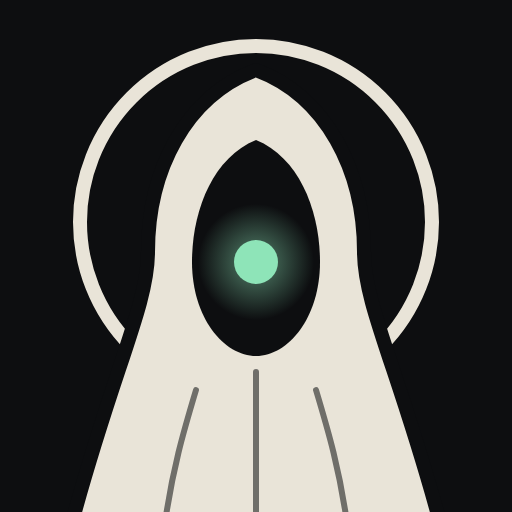
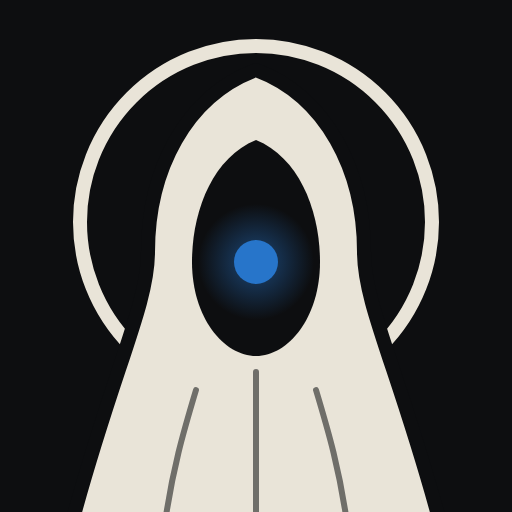
Rebrand accent from mint to USDC blue (#2775CA)
- Site: --accent #2775CA for buttons (white text), chart line, dots, streak bar,
  selection; --accent-ink #4B8FD8 for small text (5.7:1 vs 4.1:1)
- Re-copied the blue hooded logo (header, favicon, token image)
- Share card, X launch graphic and brand board re-rendered in blue
- Not deployed yet

Changed region(s): [[0.4062, 0.4375, 0.5938, 0.5938]]

diff --git a/public/style.css b/public/style.css
@@ -3,7 +3,9 @@
 :root {
   --bg: #0d0e10; --surface: #15171a; --hover: #1c1f23; --line: #24272c;
   --text: #eceae4; --muted: #868b94; --dim: #5d626b;
-  --mint: #8ee4b8; --mint-soft: rgba(142, 228, 184, .1);
+  /* USDC blue. --accent (exact #2775CA) for fills, lines and buttons; --accent-ink, a lighter tint of it,
+     for small text, where #2775CA alone is below 4.5:1 on the dark background. */
+  --accent: #2775ca; --accent-ink: #4b8fd8; --accent-soft: rgba(39, 117, 202, .14);
   --sans: "Inter Tight", Inter, system-ui, -apple-system, Segoe UI, sans-serif;
   --mono: "JetBrains Mono", ui-monospace, Menlo, Consolas, monospace;
   color-scheme: dark;
@@ -16,14 +18,14 @@ button, input { font: inherit; color: inherit; }
 [hidden] { display: none !important; }
 .mono, .n { font-family: var(--mono); font-variant-numeric: tabular-nums; }
 .muted { color: var(--muted); }
-.mint { color: var(--mint); }
-::selection { background: var(--mint); color: var(--bg); }
+.accent { color: var(--accent-ink); }
+::selection { background: var(--accent); color: #fff; }
 
 /* header */
 header { position: sticky; top: 0; z-index: 20; background: rgba(13, 14, 16, .86); backdrop-filter: blur(12px); }
 .bar { max-width: 1080px; margin: 0 auto; display: flex; align-items: center; gap: 28px; padding: 14px 20px; }
 .logo { font-weight: 700; font-size: 16px; text-decoration: none; white-space: nowrap; display: flex; align-items: center; gap: 9px; }
-/* The mark: a hooded member, the inner circle worn as a halo, the mint dot glowing under the hood. */
+/* The mark: a hooded member, the inner circle worn as a halo, the blue dot glowing under the hood. */
 .logo .mark { width: 26px; height: 26px; flex: none; display: block; }
 .logo .word { letter-spacing: .14em; }
 .net { font: 500 11px var(--mono); color: var(--muted); background: var(--surface); padding: 3px 7px; border-radius: 6px; }
@@ -33,8 +35,8 @@ nav.tabs button:hover { color: var(--text); }
 nav.tabs button.on { color: var(--text); background: var(--surface); }
 .btn { display: inline-flex; align-items: center; justify-content: center; text-decoration: none; border: 0; border-radius: 10px; padding: 10px 18px; cursor: pointer; font-weight: 600; background: var(--surface); white-space: nowrap; transition: background .15s; }
 .btn:hover { background: var(--hover); }
-.btn.mint { background: var(--mint); color: #0b1a12; }
-.btn.mint:hover { background: #a6ecc7; }
+.btn.accent { background: var(--accent); color: #fff; }
+.btn.accent:hover { background: #1f66b5; }
 .btn.small { padding: 7px 13px; font-size: 13px; border-radius: 9px; }
 .btn:disabled { opacity: .45; cursor: default; }
 
@@ -42,7 +44,7 @@ nav.tabs button.on { color: var(--text); background: var(--surface); }
 .ticker { border-top: 1px solid var(--line); border-bottom: 1px solid var(--line); overflow: hidden; white-space: nowrap; font-size: 13px; color: var(--muted); mask-image: linear-gradient(90deg, transparent, #000 6%, #000 94%, transparent); }
 .ticker .track { display: inline-flex; gap: 40px; padding: 8px 0; animation: tick 60s linear infinite; }
 .ticker:hover .track { animation-play-state: paused; }
-.ticker b { font: 500 13px var(--mono); color: var(--mint); }
+.ticker b { font: 500 13px var(--mono); color: var(--accent-ink); }
 .ticker span.w { font-family: var(--mono); color: var(--text); }
 @keyframes tick { from { transform: translateX(0); } to { transform: translateX(-50%); } }
 
@@ -54,8 +56,8 @@ section.view.on { display: block; }
 .hero { text-align: center; padding: 76px 0 56px; }
 .hero .eyebrow { color: var(--muted); font-size: 14px; letter-spacing: .02em; }
 .clock { font: 500 clamp(76px, 15vw, 136px)/1 var(--mono); letter-spacing: -.04em; margin: 10px 0 18px; font-variant-numeric: tabular-nums; }
-.clock.paid { font-size: clamp(30px, 6vw, 52px); letter-spacing: -.02em; color: var(--mint); padding: 34px 0; }
-.pot { font: 500 clamp(28px, 5vw, 40px)/1.1 var(--mono); color: var(--mint); font-variant-numeric: tabular-nums; }
+.clock.paid { font-size: clamp(30px, 6vw, 52px); letter-spacing: -.02em; color: var(--accent-ink); padding: 34px 0; }
+.pot { font: 500 clamp(28px, 5vw, 40px)/1.1 var(--mono); color: var(--accent-ink); font-variant-numeric: tabular-nums; }
 .pot small { display: block; font: 400 14px var(--sans); color: var(--muted); margin-top: 6px; }
 .line { color: var(--muted); max-width: 460px; margin: 26px auto 0; }
 .cta { display: flex; gap: 10px; justify-content: center; margin-top: 28px; }
@@ -65,20 +67,20 @@ section.view.on { display: block; }
 .hourbar { width: min(220px, 60%); height: 2px; background: var(--line); border-radius: 2px; margin: -4px auto 22px; overflow: hidden; }
 .hourbar > div { height: 100%; width: 0; background: var(--muted); border-radius: 2px; transition: width 1s linear; }
 .pot { position: relative; display: inline-block; }
-.pot .bump { position: absolute; left: 100%; top: 2px; margin-left: 10px; font: 500 15px var(--mono); color: var(--mint); opacity: 0; white-space: nowrap; }
+.pot .bump { position: absolute; left: 100%; top: 2px; margin-left: 10px; font: 500 15px var(--mono); color: var(--accent-ink); opacity: 0; white-space: nowrap; }
 .pot .bump.show { animation: bump 2.4s ease-out; }
 @keyframes bump { 0% { opacity: 0; transform: translateY(6px); } 15% { opacity: 1; transform: none; } 75% { opacity: 1; } 100% { opacity: 0; transform: translateY(-6px); } }
 
 /* your share strip */
 .mine { margin: 30px auto 0; max-width: 520px; background: var(--surface); border-radius: 14px; padding: 16px 18px; text-align: left; }
 .mine .cut { display: flex; align-items: baseline; gap: 10px; flex-wrap: wrap; }
-.mine .est { font: 500 24px var(--mono); color: var(--mint); }
+.mine .est { font: 500 24px var(--mono); color: var(--accent-ink); }
 .mine .lbl { color: var(--muted); font-size: 13px; }
 .facts { display: grid; grid-template-columns: repeat(3, minmax(0, 1fr)); gap: 12px; margin-top: 14px; }
 .facts b { display: block; font: 500 15px var(--mono); }
 .facts span { color: var(--muted); font-size: 12px; }
 .streak { height: 3px; background: var(--line); border-radius: 3px; margin-top: 14px; overflow: hidden; }
-.streak > div { height: 100%; background: var(--mint); border-radius: 3px; transition: width .6s; }
+.streak > div { height: 100%; background: var(--accent); border-radius: 3px; transition: width .6s; }
 .streak-l { display: flex; justify-content: space-between; color: var(--dim); font: 400 11px var(--mono); margin-top: 6px; }
 
 /* price chart: one series, so no legend; the title names it */
@@ -95,9 +97,9 @@ section.view.on { display: block; }
 .chart svg { display: block; width: 100%; height: 100%; overflow: visible; }
 .chart .grid { stroke: var(--line); stroke-width: 1; }
 .chart .axis { fill: var(--dim); font: 400 11px var(--mono); }
-.chart .line { fill: none; stroke: var(--mint); stroke-width: 2; stroke-linejoin: round; stroke-linecap: round; }
+.chart .line { fill: none; stroke: var(--accent); stroke-width: 2; stroke-linejoin: round; stroke-linecap: round; }
 .chart .cross { stroke: var(--muted); stroke-width: 1; }
-.chart .dot { fill: var(--mint); stroke: var(--bg); stroke-width: 2; }
+.chart .dot { fill: var(--accent); stroke: var(--bg); stroke-width: 2; }
 .tip { position: absolute; top: 0; transform: translateX(-50%); pointer-events: none; background: var(--hover); border: 1px solid var(--line); border-radius: 8px; padding: 6px 9px; white-space: nowrap; display: flex; flex-direction: column; gap: 1px; }
 .tip b { font: 500 13px var(--mono); color: var(--text); }
 .tip span { font-size: 11px; color: var(--muted); }
@@ -114,7 +116,7 @@ h1 { font-weight: 700; font-size: 34px; letter-spacing: -.02em; margin: 44px 0 6
 .lead { color: var(--muted); margin: 0 0 22px; max-width: 560px; }
 .steps { counter-reset: s; list-style: none; padding: 0; margin: 0; display: grid; gap: 12px; }
 .steps li { counter-increment: s; display: flex; gap: 14px; }
-.steps li::before { content: counter(s); flex: none; width: 22px; font: 500 13px/22px var(--mono); color: var(--mint); }
+.steps li::before { content: counter(s); flex: none; width: 22px; font: 500 13px/22px var(--mono); color: var(--accent-ink); }
 details.fine { margin-top: 18px; color: var(--muted); font-size: 13px; }
 details.fine summary { cursor: pointer; color: var(--text); font-size: 14px; list-style: none; }
 details.fine summary::before { content: "+ "; color: var(--muted); font-family: var(--mono); }
@@ -123,27 +125,27 @@ details.fine ul { padding-left: 18px; }
 .calc { background: var(--surface); border-radius: 14px; padding: 18px; }
 .calc label { display: block; color: var(--muted); font-size: 13px; margin-bottom: 8px; }
 .field { display: flex; align-items: center; gap: 8px; background: var(--bg); border: 1px solid var(--line); border-radius: 10px; padding: 3px 6px 3px 14px; }
-.field:focus-within { border-color: rgba(142, 228, 184, .45); }
+.field:focus-within { border-color: rgba(39, 117, 202, .6); }
 .field input { flex: 1; min-width: 0; background: none; border: 0; outline: none; font: 500 18px var(--mono); padding: 9px 0; font-variant-numeric: tabular-nums; }
 .field span { color: var(--muted); font-size: 13px; padding: 0 8px; white-space: nowrap; }
 .calc .out { margin-top: 14px; }
-.calc .out .n { font-size: 24px; color: var(--mint); }
+.calc .out .n { font-size: 24px; color: var(--accent-ink); }
 
 /* lists (soft hover) */
 .narrow { max-width: 720px; }
 .rows { display: flex; flex-direction: column; gap: 2px; }
 .row { display: flex; align-items: center; gap: 12px; padding: 9px 10px; border-radius: 6px; cursor: pointer; text-decoration: none; }
 .row:hover { background: rgba(255, 255, 255, .04); }
-.row:hover .t { color: var(--mint); }
+.row:hover .t { color: var(--accent-ink); }
 .row .body { flex: 1; min-width: 0; }
 .row .t { font: 500 14px var(--mono); overflow: hidden; text-overflow: ellipsis; white-space: nowrap; }
 .row .d { color: var(--muted); font-size: 13px; }
 .row .end { text-align: right; white-space: nowrap; }
-.row .end .a { font: 500 14px var(--mono); color: var(--mint); }
+.row .end .a { font: 500 14px var(--mono); color: var(--accent-ink); }
 .row .end .w { color: var(--muted); font-size: 12px; }
 .row.fresh { animation: fresh 1.6s ease-out; }
-@keyframes fresh { from { background: var(--mint-soft); } to { background: transparent; } }
-.row.you { background: var(--mint-soft); }
+@keyframes fresh { from { background: var(--accent-soft); } to { background: transparent; } }
+.row.you { background: var(--accent-soft); }
 .av.pfp { object-fit: cover; background: var(--surface); }
 .xn { font-family: var(--sans); font-weight: 600; }
 
@@ -168,7 +170,7 @@ details.fine ul { padding-left: 18px; }
 .btn.ghost { background: none; color: var(--muted); }
 .btn.ghost:hover { color: var(--text); background: var(--surface); }
 @media (max-width: 560px) { .pstats { grid-template-columns: repeat(2, minmax(0, 1fr)); } .pid h1 { font-size: 24px; } .ppfp, .av.big { width: 60px; height: 60px; } }
-.me { font: 500 11px var(--sans); color: var(--mint); margin-left: 6px; }
+.me { font: 500 11px var(--sans); color: var(--accent-ink); margin-left: 6px; }
 .rank { width: 20px; color: var(--dim); font: 400 12px var(--mono); text-align: right; flex: none; }
 .av { width: 32px; height: 32px; border-radius: 8px; display: grid; place-items: center; font: 500 11px var(--mono); flex: none; }
 .seg { display: inline-flex; background: var(--surface); border-radius: 9px; padding: 3px; gap: 2px; margin-bottom: 14px; }
@@ -183,7 +185,7 @@ dialog#tradeDlg::backdrop { background: rgba(0, 0, 0, .65); backdrop-filter: blu
 .x { background: none; border: 0; width: 32px; height: 32px; border-radius: 50%; cursor: pointer; color: var(--muted); font-size: 15px; }
 .x:hover { color: var(--text); background: var(--hover); }
 .dlg-label { display: flex; justify-content: space-between; color: var(--muted); font-size: 13px; margin: 18px 0 8px; }
-.dlg-label button { background: none; border: 0; color: var(--mint); cursor: pointer; font-size: 12px; padding: 0; }
+.dlg-label button { background: none; border: 0; color: var(--accent-ink); cursor: pointer; font-size: 12px; padding: 0; }
 .field.big input { font-size: 24px; padding: 10px 0; }
 .chips { display: flex; gap: 6px; margin-top: 10px; flex-wrap: wrap; }
 .chips button { background: var(--bg); border: 1px solid var(--line); border-radius: 8px; padding: 5px 10px; color: var(--muted); cursor: pointer; font: 500 12px var(--mono); }

diff --git a/brand/board.html b/brand/board.html
@@ -1,1 +1,1 @@
-<!doctype html><html><head><meta charset="utf-8"><link href="https://fonts.googleapis.com/css2?family=Inter+Tight:wght@400;500;600;700&family=JetBrains+Mono:wght@400;500&display=block" rel="stylesheet"><style>:root{--bg:#0d0e10;--surface:#15171a;--line:#24272c;--text:#eceae4;--muted:#868b94;--dim:#5d626b;--mint:#8ee4b8}html,body{margin:0;background:var(--bg);color:var(--text);font-family:"Inter Tight",sans-serif;overflow:hidden}em{font-style:normal;color:var(--mint)}.mono{font-family:"JetBrains Mono",monospace}html,body{width:1600px;height:1000px}.page{padding:64px 72px;display:grid;grid-template-columns:1fr 1fr;gap:28px;height:100%;box-sizing:border-box}.card{background:var(--surface);border-radius:20px;padding:32px 36px;position:relative}.k{font:500 13px "JetBrains Mono";color:var(--dim);letter-spacing:.08em;text-transform:uppercase;margin-bottom:22px}.lock{display:flex;align-items:center;gap:18px}.lock b{font:700 46px "Inter Tight";letter-spacing:.14em}.note{color:var(--muted);font-size:16px;line-height:1.5;margin-top:22px;max-width:560px}.marks{display:flex;gap:28px;align-items:center;margin-top:26px}.tile{width:84px;height:84px;border-radius:20px;background:var(--bg);display:grid;place-items:center}.sw{display:grid;grid-template-columns:repeat(4,1fr);gap:14px}.sw div{border-radius:12px;height:96px;padding:10px 12px;box-sizing:border-box;display:flex;flex-direction:column;justify-content:flex-end;font:500 12px "JetBrains Mono"}.sw span{opacity:.75}.type1{font:700 52px "Inter Tight";letter-spacing:-.02em}.type2{font:500 40px "JetBrains Mono";color:var(--mint);margin-top:8px}.type3{color:var(--muted);margin-top:10px;font-size:15px}.gl{display:grid;grid-template-columns:auto 1fr;gap:12px 28px;font-size:18px}.gl dt{color:var(--muted)}.gl dd{margin:0}.lines p{margin:0 0 14px;font-size:22px;font-weight:600;letter-spacing:-.01em}</style></head><body><div class="page"><div class="card"><div class="k">Mark</div><div class="lock"><img src="hooded/cult-transparent.svg" width="73" height="73" alt=""><b>CULT</b></div><p class="note">A hooded member, the inner circle worn as a halo, the mint dot glowing under the hood. Mint is the one colour on the page: money paid to those who stay.</p><div class="marks"><div class="tile"><img src="hooded/cult-transparent.svg" width="68" height="68" alt=""></div><div class="tile" style="overflow:hidden;padding:0"><img src="hooded/cult-icon.svg" width="84" height="84" alt=""></div><img src="hooded/cult-transparent.svg" width="36" height="36" alt=""><img src="hooded/cult-transparent.svg" width="23" height="23" alt=""></div></div><div class="card"><div class="k">Colour</div><div class="sw"><div style="background:#0d0e10;border:1px solid #24272c">Night<span>#0D0E10</span></div><div style="background:#15171a;border:1px solid #24272c">Surface<span>#15171A</span></div><div style="background:#eceae4;color:#0d0e10">Bone<span>#ECEAE4</span></div><div style="background:#8ee4b8;color:#0b1a12">Mint · paid<span>#8EE4B8</span></div></div><p class="note">Dark and calm while everything else is red. Mint only ever means USDC paid to members, plus the button to join.</p></div><div class="card"><div class="k">Type</div><div class="type1">The cult is getting paid.</div><div class="type2">$0.0₃420 · 09:41</div><div class="type3">Inter Tight for words · JetBrains Mono for every number</div></div><div class="card"><div class="k">Voice</div><dl class="gl"><dt>holders</dt><dd>members</dd><dt>buy</dt><dd>join</dd><dt>15% sell tax</dt><dd>the exit tithe</dd><dt>holding streak</dt><dd>devotion</dd><dt>sellers</dt><dd>left the cult</dd><dt>airdrop</dt><dd>the cult gets paid</dd></dl></div><div class="card lines" style="grid-column:1/-1;display:flex;gap:56px;align-items:center"><div class="k" style="margin:0">Lines</div><p>Everyone's panicking. <em>The cult is getting paid.</em></p><p>Joining is free. Leaving costs 15%.</p><p>A ponzi game. No promised returns.</p></div></div></body></html>
+<!doctype html><html><head><meta charset="utf-8"><link href="https://fonts.googleapis.com/css2?family=Inter+Tight:wght@400;500;600;700&family=JetBrains+Mono:wght@400;500&display=block" rel="stylesheet"><style>:root{--bg:#0d0e10;--surface:#15171a;--line:#24272c;--text:#eceae4;--muted:#868b94;--dim:#5d626b;--mint:#2775ca}html,body{margin:0;background:var(--bg);color:var(--text);font-family:"Inter Tight",sans-serif;overflow:hidden}em{font-style:normal;color:var(--mint)}.mono{font-family:"JetBrains Mono",monospace}html,body{width:1600px;height:1000px}.page{padding:64px 72px;display:grid;grid-template-columns:1fr 1fr;gap:28px;height:100%;box-sizing:border-box}.card{background:var(--surface);border-radius:20px;padding:32px 36px;position:relative}.k{font:500 13px "JetBrains Mono";color:var(--dim);letter-spacing:.08em;text-transform:uppercase;margin-bottom:22px}.lock{display:flex;align-items:center;gap:18px}.lock b{font:700 46px "Inter Tight";letter-spacing:.14em}.note{color:var(--muted);font-size:16px;line-height:1.5;margin-top:22px;max-width:560px}.marks{display:flex;gap:28px;align-items:center;margin-top:26px}.tile{width:84px;height:84px;border-radius:20px;background:var(--bg);display:grid;place-items:center}.sw{display:grid;grid-template-columns:repeat(4,1fr);gap:14px}.sw div{border-radius:12px;height:96px;padding:10px 12px;box-sizing:border-box;display:flex;flex-direction:column;justify-content:flex-end;font:500 12px "JetBrains Mono"}.sw span{opacity:.75}.type1{font:700 52px "Inter Tight";letter-spacing:-.02em}.type2{font:500 40px "JetBrains Mono";color:var(--mint);margin-top:8px}.type3{color:var(--muted);margin-top:10px;font-size:15px}.gl{display:grid;grid-template-columns:auto 1fr;gap:12px 28px;font-size:18px}.gl dt{color:var(--muted)}.gl dd{margin:0}.lines p{margin:0 0 14px;font-size:22px;font-weight:600;letter-spacing:-.01em}</style></head><body><div class="page"><div class="card"><div class="k">Mark</div><div class="lock"><img src="hooded/cult-transparent.svg" width="73" height="73" alt=""><b>CULT</b></div><p class="note">A hooded member, the inner circle worn as a halo, the blue dot glowing under the hood. USDC blue is the one colour on the page: money paid to those who stay.</p><div class="marks"><div class="tile"><img src="hooded/cult-transparent.svg" width="68" height="68" alt=""></div><div class="tile" style="overflow:hidden;padding:0"><img src="hooded/cult-icon.svg" width="84" height="84" alt=""></div><img src="hooded/cult-transparent.svg" width="36" height="36" alt=""><img src="hooded/cult-transparent.svg" width="23" height="23" alt=""></div></div><div class="card"><div class="k">Colour</div><div class="sw"><div style="background:#0d0e10;border:1px solid #24272c">Night<span>#0D0E10</span></div><div style="background:#15171a;border:1px solid #24272c">Surface<span>#15171A</span></div><div style="background:#eceae4;color:#0d0e10">Bone<span>#ECEAE4</span></div><div style="background:#2775ca;color:#fff">USDC blue · paid<span>#2775CA</span></div></div><p class="note">Dark and calm while everything else is red. USDC blue only ever means USDC paid to members, plus the button to join. Small blue text uses the lighter tint #4B8FD8 so it stays readable.</p></div><div class="card"><div class="k">Type</div><div class="type1">The cult is getting paid.</div><div class="type2">$0.0₃420 · 09:41</div><div class="type3">Inter Tight for words · JetBrains Mono for every number</div></div><div class="card"><div class="k">Voice</div><dl class="gl"><dt>holders</dt><dd>members</dd><dt>buy</dt><dd>join</dd><dt>15% sell tax</dt><dd>the exit tithe</dd><dt>holding streak</dt><dd>devotion</dd><dt>sellers</dt><dd>left the cult</dd><dt>airdrop</dt><dd>the cult gets paid</dd></dl></div><div class="card lines" style="grid-column:1/-1;display:flex;gap:56px;align-items:center"><div class="k" style="margin:0">Lines</div><p>Everyone's panicking. <em>The cult is getting paid.</em></p><p>Joining is free. Leaving costs 15%.</p><p>A ponzi game. No promised returns.</p></div></div></body></html>

diff --git a/public/app.js b/public/app.js
@@ -403,7 +403,7 @@
     } else {
       const gross = (amt * sol) / (tok + amt), fee = (gross * pool.feeBps) / 10_000;
       const imp = (amt / (tok + amt)) * 100;
-      q.innerHTML = `<div class="n">~${(gross - fee).toFixed(4)} SOL</div><div class="muted"><span class="mint mono">${fee.toFixed(4)} SOL</span> of it goes to the cult.</div>${impact(imp)}`;
+      q.innerHTML = `<div class="n">~${(gross - fee).toFixed(4)} SOL</div><div class="muted"><span class="accent mono">${fee.toFixed(4)} SOL</span> of it goes to the cult.</div>${impact(imp)}`;
     }
   }
   $("sideSeg").addEventListener("click", (e) => { const b = e.target.closest("button"); if (b) setSide(b.dataset.v); });
@@ -416,14 +416,14 @@
   function disarm() {
     armed = false;
     $("streakWarn").classList.remove("armed");
-    $("tradeGo").classList.add("mint");
+    $("tradeGo").classList.add("accent");
     if (side === "sell") $("tradeGo").textContent = "Sell";
   }
   $("tradeGo").addEventListener("click", async () => {
     if (side === "sell" && !armed) {
       armed = true;
       $("streakWarn").classList.add("armed");
-      $("tradeGo").classList.remove("mint"); // the bright button is for holding, not for this
+      $("tradeGo").classList.remove("accent"); // the bright button is for holding, not for this
       $("tradeGo").textContent = `Leave anyway, pay ${(pool?.feeBps ?? S.sellTaxBps) / 100}%`;
       return;
     }
@@ -469,7 +469,7 @@
     if (!viewing) return;
     const mine = viewing === "me" || viewing === wallet;
     if (mine && !wallet) {
-      el.innerHTML = `<div class="pempty"><h1>Your profile</h1><p class="lead">Connect the wallet you hold $${esc(S?.ticker || "CULT")} in. Link your X and your name and picture show on the boards, and stay in sync with X.</p><button class="btn mint" id="pConnect">Connect wallet</button></div>`;
+      el.innerHTML = `<div class="pempty"><h1>Your profile</h1><p class="lead">Connect the wallet you hold $${esc(S?.ticker || "CULT")} in. Link your X and your name and picture show on the boards, and stay in sync with X.</p><button class="btn accent" id="pConnect">Connect wallet</button></div>`;
       $("pConnect").onclick = connect;
       return;
     }
@@ -484,16 +484,16 @@
     const devotion = p.devotionDays == null ? (p.sells ? "left the cult" : "—") : `${p.devotionDays}d · ${p.multiplier}×`;
     const stats = [
       [compact(p.balance || 0), `$${esc(S?.ticker || "CULT")} held`],
-      [usd(p.receivedUsdc || 0), "USDC received", "mint"],
+      [usd(p.receivedUsdc || 0), "USDC received", "accent"],
       [devotion, "devotion"],
       [p.rank ? "#" + p.rank : "—", "rank among members"],
     ];
     let actions = "";
     if (mine) {
-      if (!ME?.signedIn) actions = `<button class="btn mint" id="pSign">Sign in to edit</button><span class="pnote">One free signature proves the wallet is yours.</span>`;
-      else if (!ME.holds) actions = `<button class="btn mint" data-trade="buy" id="pJoin">Join to create a profile</button><span class="pnote">Profiles are for members holding $${esc(S?.ticker || "CULT")}.</span>`;
+      if (!ME?.signedIn) actions = `<button class="btn accent" id="pSign">Sign in to edit</button><span class="pnote">One free signature proves the wallet is yours.</span>`;
+      else if (!ME.holds) actions = `<button class="btn accent" data-trade="buy" id="pJoin">Join to create a profile</button><span class="pnote">Profiles are for members holding $${esc(S?.ticker || "CULT")}.</span>`;
       else if (!ME.xEnabled) actions = `<span class="pnote">Linking X opens soon.</span>`;
-      else if (!x) actions = `<a class="btn mint" href="/api/x/connect">Link X</a><span class="pnote">Your X name and picture become your profile, and stay in sync with X.</span>`;
+      else if (!x) actions = `<a class="btn accent" href="/api/x/connect">Link X</a><span class="pnote">Your X name and picture become your profile, and stay in sync with X.</span>`;
       else actions = `<button class="btn" id="pUnlink">Unlink X</button>`;
       actions += `<button class="btn ghost" id="pOut">Sign out</button>`;
     }

diff --git a/brand/og.html b/brand/og.html
@@ -1,1 +1,1 @@
-<!doctype html><html><head><meta charset="utf-8"><link href="https://fonts.googleapis.com/css2?family=Inter+Tight:wght@400;500;600;700&family=JetBrains+Mono:wght@400;500&display=block" rel="stylesheet"><style>:root{--bg:#0d0e10;--surface:#15171a;--line:#24272c;--text:#eceae4;--muted:#868b94;--dim:#5d626b;--mint:#8ee4b8}html,body{margin:0;background:var(--bg);color:var(--text);font-family:"Inter Tight",sans-serif;overflow:hidden}em{font-style:normal;color:var(--mint)}.mono{font-family:"JetBrains Mono",monospace}html,body{width:1200px;height:630px}.glow{position:absolute;left:50%;top:48%;width:900px;height:520px;transform:translate(-50%,-50%);background:radial-gradient(closest-side,rgba(142,228,184,.09),transparent)}.wrap{position:absolute;inset:0;display:flex;flex-direction:column;align-items:center;justify-content:center;text-align:center}.lock{display:flex;align-items:center;gap:16px}.lock b{font:700 34px "Inter Tight";letter-spacing:.14em}h1{margin:44px 0 0;font:600 68px/1.06 "Inter Tight";letter-spacing:-.03em}.sub{margin-top:34px;font:500 26px "JetBrains Mono";color:var(--muted)}</style></head><body><div class="glow"></div><div class="wrap"><div class="lock"><img src="hooded/cult-transparent.svg" width="52" height="52" alt=""><b>CULT</b></div><h1>Everyone's panicking.<br><em>The cult is getting paid.</em></h1><div class="sub">0% to join · 15% to leave · USDC every 10 min</div></div></body></html>
+<!doctype html><html><head><meta charset="utf-8"><link href="https://fonts.googleapis.com/css2?family=Inter+Tight:wght@400;500;600;700&family=JetBrains+Mono:wght@400;500&display=block" rel="stylesheet"><style>:root{--bg:#0d0e10;--surface:#15171a;--line:#24272c;--text:#eceae4;--muted:#868b94;--dim:#5d626b;--mint:#2775ca}html,body{margin:0;background:var(--bg);color:var(--text);font-family:"Inter Tight",sans-serif;overflow:hidden}em{font-style:normal;color:var(--mint)}.mono{font-family:"JetBrains Mono",monospace}html,body{width:1200px;height:630px}.glow{position:absolute;left:50%;top:48%;width:900px;height:520px;transform:translate(-50%,-50%);background:radial-gradient(closest-side,rgba(39,117,202,.09),transparent)}.wrap{position:absolute;inset:0;display:flex;flex-direction:column;align-items:center;justify-content:center;text-align:center}.lock{display:flex;align-items:center;gap:16px}.lock b{font:700 34px "Inter Tight";letter-spacing:.14em}h1{margin:44px 0 0;font:600 68px/1.06 "Inter Tight";letter-spacing:-.03em}.sub{margin-top:34px;font:500 26px "JetBrains Mono";color:var(--muted)}</style></head><body><div class="glow"></div><div class="wrap"><div class="lock"><img src="hooded/cult-transparent.svg" width="52" height="52" alt=""><b>CULT</b></div><h1>Everyone's panicking.<br><em>The cult is getting paid.</em></h1><div class="sub">0% to join · 15% to leave · USDC every 10 min</div></div></body></html>

diff --git a/brand/x-launch.html b/brand/x-launch.html
@@ -1,1 +1,1 @@
-<!doctype html><html><head><meta charset="utf-8"><link href="https://fonts.googleapis.com/css2?family=Inter+Tight:wght@400;500;600;700&family=JetBrains+Mono:wght@400;500&display=block" rel="stylesheet"><style>:root{--bg:#0d0e10;--surface:#15171a;--line:#24272c;--text:#eceae4;--muted:#868b94;--dim:#5d626b;--mint:#8ee4b8}html,body{margin:0;background:var(--bg);color:var(--text);font-family:"Inter Tight",sans-serif;overflow:hidden}em{font-style:normal;color:var(--mint)}.mono{font-family:"JetBrains Mono",monospace}html,body{width:1600px;height:900px}.glow{position:absolute;left:50%;top:44%;width:1100px;height:700px;transform:translate(-50%,-50%);background:radial-gradient(closest-side,rgba(142,228,184,.08),transparent)}.wrap{position:absolute;inset:0;display:flex;flex-direction:column;align-items:center;justify-content:center;gap:64px}h1{margin:0;font:600 64px "Inter Tight";letter-spacing:-.025em}</style></head><body><div class="glow"></div><div class="wrap"><img src="hooded/cult-transparent.svg" width="286" height="286" alt=""><h1>The cult gets paid every 10 minutes.</h1></div></body></html>
+<!doctype html><html><head><meta charset="utf-8"><link href="https://fonts.googleapis.com/css2?family=Inter+Tight:wght@400;500;600;700&family=JetBrains+Mono:wght@400;500&display=block" rel="stylesheet"><style>:root{--bg:#0d0e10;--surface:#15171a;--line:#24272c;--text:#eceae4;--muted:#868b94;--dim:#5d626b;--mint:#2775ca}html,body{margin:0;background:var(--bg);color:var(--text);font-family:"Inter Tight",sans-serif;overflow:hidden}em{font-style:normal;color:var(--mint)}.mono{font-family:"JetBrains Mono",monospace}html,body{width:1600px;height:900px}.glow{position:absolute;left:50%;top:44%;width:1100px;height:700px;transform:translate(-50%,-50%);background:radial-gradient(closest-side,rgba(39,117,202,.08),transparent)}.wrap{position:absolute;inset:0;display:flex;flex-direction:column;align-items:center;justify-content:center;gap:64px}h1{margin:0;font:600 64px "Inter Tight";letter-spacing:-.025em}</style></head><body><div class="glow"></div><div class="wrap"><img src="hooded/cult-transparent.svg" width="286" height="286" alt=""><h1>The cult gets paid every 10 minutes.</h1></div></body></html>

diff --git a/brand/logo.html b/brand/logo.html
@@ -1,1 +1,1 @@
-<!doctype html><html><head><meta charset="utf-8"><link href="https://fonts.googleapis.com/css2?family=Inter+Tight:wght@400;500;600;700&family=JetBrains+Mono:wght@400;500&display=block" rel="stylesheet"><style>:root{--bg:#0d0e10;--surface:#15171a;--line:#24272c;--text:#eceae4;--muted:#868b94;--dim:#5d626b;--mint:#8ee4b8}html,body{margin:0;background:var(--bg);color:var(--text);font-family:"Inter Tight",sans-serif;overflow:hidden}em{font-style:normal;color:var(--mint)}.mono{font-family:"JetBrains Mono",monospace}html,body{width:512px;height:512px}body{display:grid;place-items:center}</style></head><body><svg width="330" height="330" viewBox="0 0 20 20"><circle cx="10" cy="10" r="8" fill="none" stroke="#eceae4" stroke-width="2"/><circle cx="10" cy="10" r="3.2" fill="#8ee4b8"/></svg></body></html>
+<!doctype html><html><head><meta charset="utf-8"><link href="https://fonts.googleapis.com/css2?family=Inter+Tight:wght@400;500;600;700&family=JetBrains+Mono:wght@400;500&display=block" rel="stylesheet"><style>:root{--bg:#0d0e10;--surface:#15171a;--line:#24272c;--text:#eceae4;--muted:#868b94;--dim:#5d626b;--mint:#2775ca}html,body{margin:0;background:var(--bg);color:var(--text);font-family:"Inter Tight",sans-serif;overflow:hidden}em{font-style:normal;color:var(--mint)}.mono{font-family:"JetBrains Mono",monospace}html,body{width:512px;height:512px}body{display:grid;place-items:center}</style></head><body><svg width="330" height="330" viewBox="0 0 20 20"><circle cx="10" cy="10" r="8" fill="none" stroke="#eceae4" stroke-width="2"/><circle cx="10" cy="10" r="3.2" fill="#2775ca"/></svg></body></html>

diff --git a/public/index.html b/public/index.html
@@ -62,7 +62,7 @@
       </div>
 
       <div class="cta" id="cta">
-        <button class="btn mint" data-trade="buy">Join</button>
+        <button class="btn accent" data-trade="buy">Join</button>
         <button class="btn" data-trade="sell">Sell</button>
       </div>
     </div>
@@ -86,7 +86,7 @@
 
     <div class="totals" id="totals" hidden>
       <div id="tVol"><div class="n" id="volN"></div><div class="l">total volume</div></div>
-      <div id="tPaid"><div class="n mint" id="paidN"></div><div class="l">USDC paid to members</div></div>
+      <div id="tPaid"><div class="n accent" id="paidN"></div><div class="l">USDC paid to members</div></div>
       <div id="tHolders"><div class="n" id="holdersN"></div><div class="l">members paid last round</div></div>
       <div id="tDrops"><div class="n" id="dropsN"></div><div class="l">rounds paid</div></div>
     </div>
@@ -145,7 +145,7 @@
 </main>
 
 <div class="dock" id="dock">
-  <button class="btn mint" data-trade="buy">Join</button>
+  <button class="btn accent" data-trade="buy">Join</button>
   <button class="btn" data-trade="sell">Sell</button>
 </div>
 
@@ -159,7 +159,7 @@
   <div class="chips" id="chips"></div>
   <div class="quote" id="quoteOut"></div>
   <div class="warn" id="streakWarn" hidden></div>
-  <button class="btn mint wide" id="tradeGo" disabled>Buy</button>
+  <button class="btn accent wide" id="tradeGo" disabled>Buy</button>
 </dialog>
 
 <div id="toast" hidden></div>

diff --git a/public/chart.js b/public/chart.js
@@ -47,7 +47,7 @@
       const line = xy.map(([a, b], i) => (i ? "L" : "M") + a.toFixed(1) + " " + b.toFixed(1)).join(" ");
 
       const defs = el("defs"), grad = el("linearGradient", { id: "pfill", x1: 0, y1: 0, x2: 0, y2: 1 });
-      grad.append(el("stop", { offset: "0%", "stop-color": "var(--mint)", "stop-opacity": 0.16 }), el("stop", { offset: "100%", "stop-color": "var(--mint)", "stop-opacity": 0 }));
+      grad.append(el("stop", { offset: "0%", "stop-color": "var(--accent)", "stop-opacity": 0.16 }), el("stop", { offset: "100%", "stop-color": "var(--accent)", "stop-opacity": 0 }));
       defs.append(grad);
       svg.append(defs);
       svg.append(el("path", { d: `${line} L${xy.at(-1)[0].toFixed(1)} ${base} L${xy[0][0].toFixed(1)} ${base} Z`, fill: "url(#pfill)" }));

diff --git a/README.md b/README.md
@@ -130,7 +130,7 @@ Airdrops run every **10 minutes** (`DROP_MINUTES="10"`), and the cron runs every
 
 - **Name:** Cult, ticker $CULT. Line: *Everyone's panicking. The cult is getting paid.*
 - **Mark (updated 2026-11-15):** a hooded member, the inner circle worn as a halo and the mint dot glowing under the hood (`brand/hooded/`). It's used as `public/mark.svg` (header), `public/icon.svg` (favicon) and `public/logo.png` (token image and apple-touch icon). The first ring-and-dot mark is superseded. Sources are in `brand/` (`*.html`, rendered to `*.png` with headless Edge).
-- **Colour:** Night `#0D0E10`, Surface `#15171A`, Bone `#ECEAE4`, Mint `#8EE4B8` (mint means USDC paid, plus the Join button).
+- **Colour (updated 2026-11-15 to USDC blue):** Night `#0D0E10`, Surface `#15171A`, Bone `#ECEAE4` (logo bone `#E9E4D8`), USDC blue `#2775CA` for fills, lines, the logo dot and the Join button (white text, 4.7:1). Small blue text uses the tint `#4B8FD8` (5.7:1), because `#2775CA` is only 4.1:1 on Night. CSS tokens: `--accent` and `--accent-ink`.
 - **Type:** Inter Tight for words, JetBrains Mono for every number.
 - **Voice:** holders are members, buying is joining, the 15% sell tax is the exit tithe, the holding streak is devotion, sellers have left the cult, and the airdrop is the cult getting paid. The trade panel keeps plain Buy and Sell labels.
 - **Assets:** `brand/board.png` (brand board), `brand/og.png` (the link preview, copied to `public/`), `brand/x-launch.png` (1600x900), `brand/logo.png` (512px, used in `public/token.json`).
